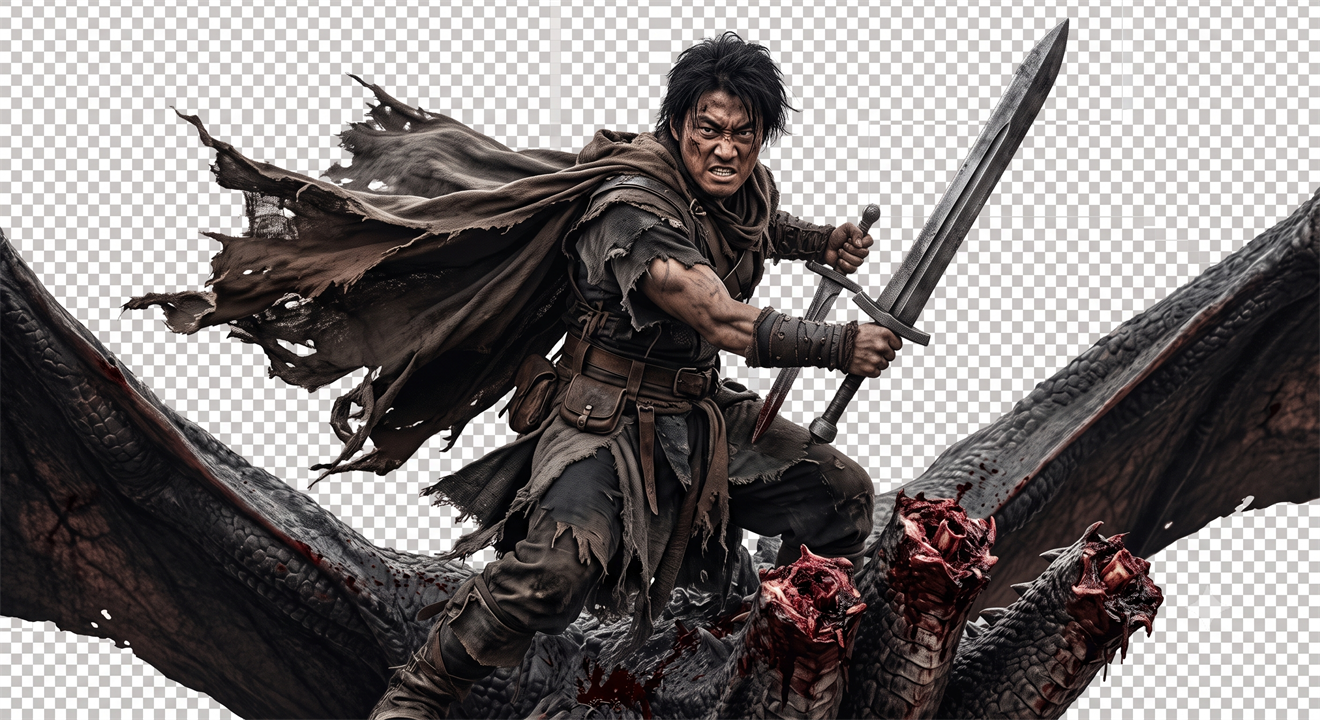
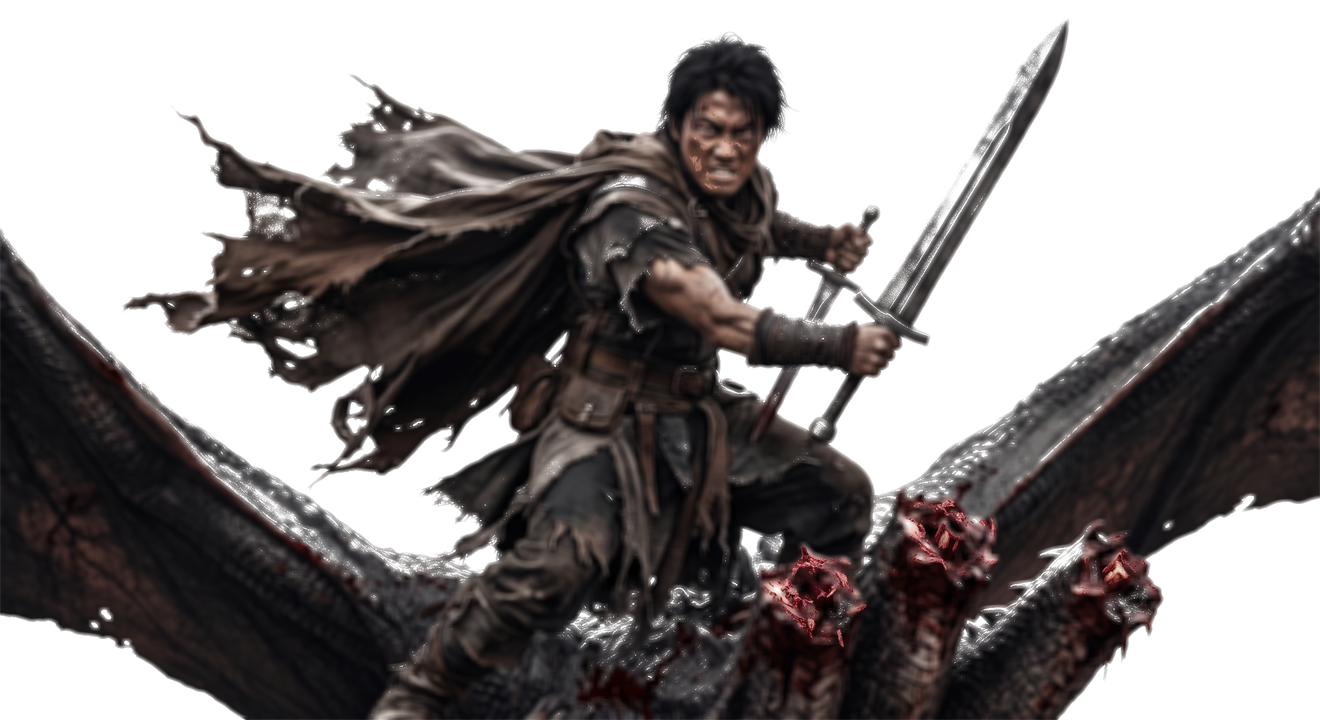
라슈 컴퍼니 v1.0.1
6장의 새 그림들 뒤에 바둑판이 깔려 보이던 것을 고쳤습니다.
특정 배정 문구가 배너에서 줄바꿈되던 것을 줄였습니다.
6장 대사를 손봤습니다 — 노란테는 작성위원들에게 반말을 하고,
태성군은 조금 더 부드럽게, 소정양은 조금 더 시니컬하게 말합니다.

diff --git a/data/story.js b/data/story.js
@@ -1229,7 +1229,7 @@ const CHAPTERS = [
   { t: "n", text: "아무도 손을 들지 않았다. 경원군은 그럴 줄 알았다는 얼굴로 고개를 숙였다." },
   { t: "d", who: "lee_gyeongwon", text: "…아, 네. 그럼 이번은 제 차례네요." },
 
-  { t: "d", who: "manager", text: "G사가 어떤 데예요?" },
+  { t: "d", who: "manager", text: "G사가 어떤 데야?" },
   { t: "d", who: "kim_taeseong", text: "괴수의 기업입니다. 괴수를 만들어내고…" },
   { t: "d", who: "kim_duhyeon", text: "그 괴수로 미디어를 만들죠. 영화, 특촬, 굿즈까지." },
   { t: "n", text: "괴수를 만드는 것과 괴수로 돈을 버는 것. 그 둘 사이에 G사가 있었다." },
@@ -1238,7 +1238,7 @@ const CHAPTERS = [
   { t: "n", text: "차 안이 잠시 조용해졌다.",
     extra: [
       { when: { party: "lee_sojeong" }, who: "lee_sojeong",
-        text: "괴수 영화요? 저 그런 거 눈이 아파서 잘 못 봐요. 다 크고, 어둡고, 시끄럽잖아요." },
+        text: "괴수 영화. 크고, 어둡고, 시끄러운 걸 두 시간 보는 일이지. 그걸로 먹고사는 회사가 있다니." },
       { when: { party: "chu_minsu" }, who: "chu_minsu",
         text: "괴수를 «만든다» 는 게 어디까지를 말하는 거지. 설계도가 있다는 뜻인가?" },
       { when: { party: "song_hamin" }, who: "song_hamin",
@@ -1268,9 +1268,9 @@ const CHAPTERS = [
 
   /* ── 경원군에게 묻는다 ─────────────────────────────────── */
   { t: "n", text: "경원군은 아까부터 창밖만 보고 있었다." },
-  { t: "d", who: "manager", text: "경원군, 그 세리자와라는 사람하고 어떤 관계에요?" },
+  { t: "d", who: "manager", text: "경원군, 그 세리자와라는 사람하고 어떤 관계야?" },
   { t: "d", who: "lee_gyeongwon", text: "한때는 좋아했었는데, 이제 변해서 안 좋아해요." },
-  { t: "d", who: "manager", text: "그런데 왜 뭘 걱정하는 거에요? 그 사람이 변해서 떠난 거에요?" },
+  { t: "d", who: "manager", text: "그런데 왜 뭘 걱정하는 거야? 그 사람이 변해서 떠난 거야?" },
   { t: "d", who: "lee_gyeongwon", text: "… 상관 없잖아요. 님하고는." },
   { t: "n", text: "그 뒤로 경원군은 한마디도 하지 않았다.",
     extra: [
@@ -1284,7 +1284,7 @@ const CHAPTERS = [
   { t: "place", img: "assets/scene/모나크 저택.jpg", name: "G사 · 모나크 저택" },
   { t: "n", text: "모나크. 세리자와가 조용히 괴수 이야기를 만들어내던 커다란 저택이었다." },
   { t: "n", text: "문 앞에 검은 천이 걸려 있었다. 축제가 아니었다." },
-  { t: "d", who: "manager", text: "…이거, 장례식인데요." },
+  { t: "d", who: "manager", text: "…이거, 장례식인데." },
   { t: "d", who: "guide", text: "…본사에 연락해 보겠습니다. 여러분은 먼저 들어가 계십시오." },
   { t: "n", text: "길잡이는 그렇게 말하고 문 밖에 남았다. 그 등이 오늘따라 작아 보였다." },
 
@@ -1322,9 +1322,9 @@ const CHAPTERS = [
 
   /* ── 노란테의 결정 ─────────────────────────────────────── */
   { t: "d", who: "manager", text: "…계약서대로면 물건을 받아야 하는데." },
-  { t: "d", who: "manager", text: "줄 사람이 없네요." },
+  { t: "d", who: "manager", text: "줄 사람이 없네." },
   { t: "n", text: "노란테는 잠깐 셈을 했다. 나간 공금, 길잡이의 얼굴, 빈손으로 돌아가는 길." },
-  { t: "d", who: "manager", text: "…찾읍시다. 저택 안에 있을 거예요." },
+  { t: "d", who: "manager", text: "…찾자. 저택 안에 있을 거야." },
   { t: "d", who: "manager", text: "그렇게라도 해야지… 길잡이님한테 안 혼나려면…" },
   { t: "n", text: "장례식장에서 물건을 뒤지자는 말이었다. 좋은 얼굴은 아무도 아니었지만, 반대하는 사람도 없었다.",
     extra: [
@@ -1343,22 +1343,22 @@ const CHAPTERS = [
   { t: "n", text: "조명이 한 줄씩 꺼졌다. 꺼진 자리마다 복도가 조금씩 어긋났다." },
   { t: "n", text: "문이 있던 자리에 벽이 있고, 벽이 있던 자리에 계단이 있었다. 장례식장은 순식간에 난장판이 되었다." },
   { t: "d", who: "cha_minjun", text: "오히려 좋아! 지금이야말로 황금교본 찾을 기회잖아요!" },
-  { t: "d", who: "kim_duhyeon", text: "…민준아." },
-  { t: "d", who: "cha_minjun", text: "왜요, 틀린 말 했어요?" },
+  { t: "d", who: "kim_duhyeon", text: "…민준이 형." },
+  { t: "d", who: "cha_minjun", text: "왜, 틀린 말 했어?" },
 
   /* ── 잡졸 A ───────────────────────────────────────────── */
   { t: "n", text: "그리고 어긋난 복도 저쪽에서, 무언가가 걸어 나왔다." },
   { t: "battle", foe: "monarch_a" },
 
   { t: "n", text: "쓰러진 것의 뒷다리에 촬영용 표식이 붙어 있었다. 사람을 해치지 않도록 만들어진 것이었다." },
-  { t: "d", who: "kim_taeseong", text: "…이건 사람을 물면 안 되는 물건입니다." },
-  { t: "d", who: "manager", text: "그런데 물었잖아요." },
+  { t: "d", who: "kim_taeseong", text: "…사람을 물면 안되는 물건일 텐데요…" },
+  { t: "d", who: "manager", text: "그런데 물었잖아." },
   { t: "n", text: "",
     extra: [
       { when: { party: "chu_minsu" }, who: "chu_minsu",
         text: "설계가 잘못된 게 아니라, 설계를 «누가 고친» 거겠지." },
       { when: { party: "lee_sojeong" }, who: "lee_sojeong",
-        text: "…무섭다고 하면 안 되나요. 저 그냥 무서운데." },
+        text: "이런걸 무섭다고 하는 건가. 그냥 무섭다는 말밖에 하지 못하는 사람들 같군." },
       { when: { party: "song_hamin" }, who: "song_hamin",
         text: "이거 찍어두면 나중에 증거 되지 않을까요. …손 떨려서 흔들리겠지만." }
     ] },
@@ -1381,11 +1381,11 @@ const CHAPTERS = [
   { t: "place", img: "assets/scene/구C사 지하실.jpg", name: "모나크 저택 · 지하" },
   { t: "n", text: "계단은 아래로만 이어졌다. 내려갈수록 공기가 마르고, 종이 냄새가 났다." },
   { t: "n", text: "그리고 그 끝에, 사람이라고 부르기 어려운 것이 앉아 있었다." },
-  { t: "d", who: "로포", text: "…어어? 이게 누구야." },
-  { t: "d", who: "로포", text: "수오 형! 수오 형 아니야?! 나야 나, 로포!" },
+  { t: "d", who: "로포", text: "…어어? 이게 누구십니까." },
+  { t: "d", who: "로포", text: "수오 씨! 수오 씨 아니십니까?! 저예요 저, 로포!" },
   { t: "n", text: "목도리 딜로포사우루스였던 것이, 이제는 어디부터가 목도리인지 알 수 없게 되어 있었다." },
-  { t: "d", who: "park_suo", text: "…나는 당신을 형이라고 불릴 만큼 가깝게 지낸 기억이 없소." },
-  { t: "d", who: "로포", text: "에이~ 섭섭하게 왜 그래~" },
+  { t: "d", who: "park_suo", text: "…나는 당신과 이름을 부를 만큼 가깝게 지낸 기억이 없소." },
+  { t: "d", who: "로포", text: "에이~ 섭섭하게 왜 그러십니까~" },
 
   { t: "d", who: "lee_gyeongwon", text: "…이상해." },
   { t: "d", who: "lee_gyeongwon", text: "장례식이 너무 빨라. 오래 앓다 가신 분인데, 부고가 어제였어." },
@@ -1393,14 +1393,14 @@ const CHAPTERS = [
   { t: "n", text: "경원군이 목소리를 높인 것은 처음이었다." },
   { t: "d", who: "lee_gyeongwon", text: "말해. 여기서 무슨 일이 있었어." },
 
-  { t: "d", who: "로포", text: "아~ 그거? 응, 나 벌써 찾았어. 황금교본." },
+  { t: "d", who: "로포", text: "아~ 그거요? 네, 저 벌써 찾았습니다. 황금교본." },
   { t: "d", who: "manager", text: "뭐?" },
-  { t: "d", who: "로포", text: "그리고 그걸로 만들었지. 형이 보면 진짜 놀랄 걸 만들었어." },
+  { t: "d", who: "로포", text: "그리고 그걸로 만들었지요. 수오 씨가 보면 진짜 놀랄 걸 만들었— 아니, 놀랄 거야. 놀랄 걸." },
   { t: "d", who: "kim_duhyeon", text: "네가 만들어봐야 또 허접한 거겠지. 지난번처럼." },
   { t: "d", who: "로포", text: "…" },
   { t: "n", text: "로포는 잠깐 조용해졌다가, 웃었다. 웃음이 멈추지 않았다." },
-  { t: "d", who: "로포", text: "하하, 하하하! 그래! 그렇게 생각해! 계속 그렇게 생각하고 있어!" },
-  { t: "d", who: "로포", text: "난 여기서 할 일 다 했거든. 그럼 이만~" },
+  { t: "d", who: "로포", text: "하하, 하하하! 그럼요, 그렇게 생각하십시오! 계속 그렇게! 그렇게 생각하고 있어! 끝까지!" },
+  { t: "d", who: "로포", text: "저는 여기서 할 일 다 했거든요. 그럼 이만~ 이만, 이만." },
   { t: "n", text: "로포는 벽 안으로 들어가듯 사라졌다." },
   { t: "d", who: "park_suo", text: "…거기 서시오!" },
   { t: "n", text: "박수오가 쫓으려 했지만, 그 앞을 무언가가 가로막았다. 하나가 아니었다." },
@@ -1411,13 +1411,13 @@ const CHAPTERS = [
     endText: "…아무리 베어도 줄지 않는다. 뒤에서 계속 밀려 들어온다." },
 
   { t: "n", text: "숨이 찼다. 하나를 넘기면 둘이 들어왔다." },
-  { t: "d", who: "manager", text: "…관리력이, 안 남았어요." },
-  { t: "d", who: "kim_taeseong", text: "관리자님, 뒤로." },
-  { t: "d", who: "lee_gyeongwon", text: "황금교본은커녕… 여기서 끝나는 거야?" },
+  { t: "d", who: "manager", text: "…관리력이, 안 남았어." },
+  { t: "d", who: "kim_taeseong", text: "관리자님, 뒤에 계세요…" },
+  { t: "d", who: "lee_gyeongwon", text: "…여기서 끝인가." },
   { t: "n", text: "작성위원들은 등을 맞대고 섰다. 그것 말고 할 수 있는 것이 없었다.",
     extra: [
       { when: { party: "lee_sojeong" }, who: "lee_sojeong",
-        text: "…저, 아직 하고 싶은 거 많은데요." },
+        text: "여기서 끝나는 건가. 시시하군." },
       { when: { party: "kim_haju" }, who: "kim_haju",
         text: "여기서 죽으면 밥값이 아깝잖아. 아깝다고." },
       { when: { party: "chu_minsu" }, who: "chu_minsu",
@@ -1436,7 +1436,7 @@ const CHAPTERS = [
 
   { t: "n", text: "길잡이는 숨도 고르지 않았다." },
   { t: "d", who: "kim_duhyeon", text: "…저 사람 뭐야." },
-  { t: "d", who: "lee_hanbeom", text: "…엔진을 만든 사람이 엔진보다 셀 줄은 몰랐는데요.",
+  { t: "d", who: "lee_hanbeom", text: "…내가 만든 엔진보다 저 사람이 셉니다.",
     alt: [ { when: { party: "kim_haju" }, who: "kim_haju",
              text: "…저래놓고 우리 회식비를 깎았다고?" } ] },
   { t: "d", who: "guide", text: "옥상입니다." },

diff --git a/data/patch.js b/data/patch.js
@@ -23,6 +23,14 @@
 
 const PATCH_NOTES = [
   {
+    ver: "1.0.1", name: "기대가 어긋나는", date: "2026-08-26",
+    lines: [
+      "6장의 새 그림들 뒤에 바둑판이 깔려 보이던 것을 고쳤습니다.",
+      "특정 배정 문구가 배너에서 줄바꿈되던 것을 줄였습니다.",
+      "6장 대사를 손봤습니다. 노란테는 작성위원들에게 반말을 하고, 태성군은 조금 더 부드럽게, 소정양은 조금 더 시니컬하게 말합니다.",
+    ],
+  },
+  {
     ver: "1.0.0", name: "기대가 어긋나는", date: "2026-08-26",
     lines: [
       "6장 「기대가 어긋나는」이 들어왔습니다. 괴수의 기업 G사와, 이미 끝나 있던 장례식.",

diff --git a/data/pickup.js b/data/pickup.js
@@ -29,7 +29,7 @@ const PICKUPS = [
     tag:  "모나크",
     rate: 0.60,
     cost: 30,     // 일반 배정과 같은 값. 안 적으면 자동으로 RULE.pullCost 를 씁니다
-    line:   "괴수는 아직 끝나지 않았습니다.",
+    line:   "괴수는 아직 끝나지 않았다.",
     banner: "assets/scene/모나크 저택.jpg",
     desc: "이름에 「모나크」가 든 인격이 자주 나옵니다. 유아인 ★★★ · 차민준 ★★ · 이경원 ★★★."
   },

diff --git a/engine.js b/engine.js
@@ -11,7 +11,7 @@
  *    가운뎃자리  장이 늘거나 기능이 추가될 때
  *    뒷자리  대사·수치 손질
  */
-const VERSION = "1.0.0";
+const VERSION = "1.0.1";
 const VERSION_NAME = "기대가 어긋나는";
 
 /* ── 규칙 상수 ─ 밸런스를 만지려면 여기 ────────────────────── */
